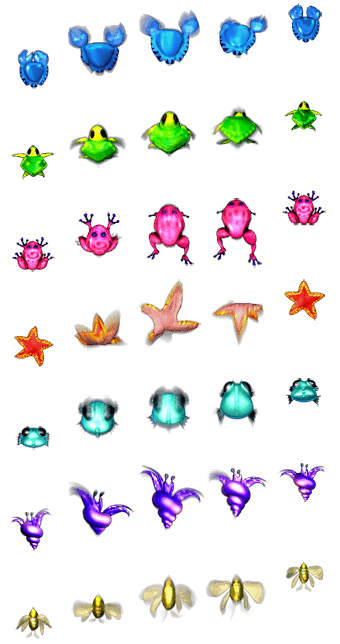
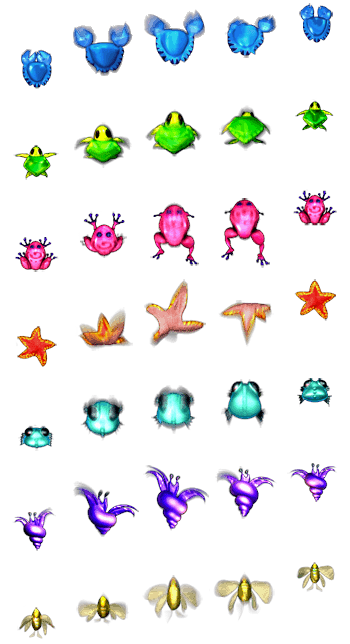
see #300 [t:1h30m]

diff --git a/js/imageCollage.js b/js/imageCollage.js
@@ -823,211 +823,211 @@ ImageCollage.COLLAGE_ARRAY = [
 	{
 		"collageId": "creatures/beach/blue-crab-jump-strip.png",
 		"imageCoordinateArray": [
-			{"cell": [0, 0, 68, 92]},
-			{"cell": [68, 0, 68, 92]},
-			{"cell": [136, 0, 68, 92]},
-			{"cell": [204, 0, 68, 92]},
-			{"cell": [272, 0, 68, 92]}
+			{"cell": [11, 0, 46, 92]},
+			{"cell": [79, 0, 46, 92]},
+			{"cell": [147, 0, 46, 92]},
+			{"cell": [215, 0, 46, 92]},
+			{"cell": [283, 0, 46, 92]}
 		]
 	},
 	{
 		"collageId": "creatures/beach/green-turtle-jump-strip.png",
 		"imageCoordinateArray": [
-			{"cell": [0, 0, 68, 92]},
-			{"cell": [68, 0, 68, 92]},
-			{"cell": [136, 0, 68, 92]},
-			{"cell": [204, 0, 68, 92]},
-			{"cell": [272, 0, 68, 92]}
+			{"cell": [11, 0, 46, 92]},
+			{"cell": [79, 0, 46, 92]},
+			{"cell": [147, 0, 46, 92]},
+			{"cell": [215, 0, 46, 92]},
+			{"cell": [283, 0, 46, 92]}
 		]
 	},
 	{
 		"collageId": "creatures/beach/pink-frog-jump-strip.png",
 		"imageCoordinateArray": [
-			{"cell": [0, 0, 68, 92]},
-			{"cell": [68, 0, 68, 92]},
-			{"cell": [136, 0, 68, 92]},
-			{"cell": [204, 0, 68, 92]},
-			{"cell": [272, 0, 68, 92]}
+			{"cell": [11, 0, 46, 92]},
+			{"cell": [79, 0, 46, 92]},
+			{"cell": [147, 0, 46, 92]},
+			{"cell": [215, 0, 46, 92]},
+			{"cell": [283, 0, 46, 92]}
 		]
 	},
 	{
 		"collageId": "creatures/beach/red-starfish-jump-strip.png",
 		"imageCoordinateArray": [
-			{"cell": [0, 0, 68, 92]},
-			{"cell": [68, 0, 68, 92]},
-			{"cell": [136, 0, 68, 92]},
-			{"cell": [204, 0, 68, 92]},
-			{"cell": [272, 0, 68, 92]}
+			{"cell": [11, 0, 46, 92]},
+			{"cell": [79, 0, 46, 92]},
+			{"cell": [147, 0, 46, 92]},
+			{"cell": [215, 0, 46, 92]},
+			{"cell": [283, 0, 46, 92]}
 		]
 	},
 	{
 		"collageId": "creatures/beach/teal-blob-jump-strip.png",
 		"imageCoordinateArray": [
-			{"cell": [0, 0, 68, 92]},
-			{"cell": [68, 0, 68, 92]},
-			{"cell": [136, 0, 68, 92]},
-			{"cell": [204, 0, 68, 92]},
-			{"cell": [272, 0, 68, 92]}
+			{"cell": [11, 0, 46, 92]},
+			{"cell": [79, 0, 46, 92]},
+			{"cell": [147, 0, 46, 92]},
+			{"cell": [215, 0, 46, 92]},
+			{"cell": [283, 0, 46, 92]}
 		]
 	},
 	{
 		"collageId": "creatures/beach/violet-crab-jump-strip.png",
 		"imageCoordinateArray": [
-			{"cell": [0, 0, 68, 92]},
-			{"cell": [68, 0, 68, 92]},
-			{"cell": [136, 0, 68, 92]},
-			{"cell": [204, 0, 68, 92]},
-			{"cell": [272, 0, 68, 92]}
+			{"cell": [11, 0, 46, 92]},
+			{"cell": [79, 0, 46, 92]},
+			{"cell": [147, 0, 46, 92]},
+			{"cell": [215, 0, 46, 92]},
+			{"cell": [283, 0, 46, 92]}
 		]
 	},
 	{
 		"collageId": "creatures/beach/yellow-fish-jump-strip.png",
 		"imageCoordinateArray": [
-			{"cell": [0, 0, 68, 92]},
-			{"cell": [68, 0, 68, 92]},
-			{"cell": [136, 0, 68, 92]},
-			{"cell": [204, 0, 68, 92]},
-			{"cell": [272, 0, 68, 92]}
+			{"cell": [11, 0, 46, 92]},
+			{"cell": [79, 0, 46, 92]},
+			{"cell": [147, 0, 46, 92]},
+			{"cell": [215, 0, 46, 92]},
+			{"cell": [283, 0, 46, 92]}
 		]
 	},
 	{
 		"collageId": "creatures/forest/blue-beetle-jump-strip.png",
 		"imageCoordinateArray": [
-			{"cell": [0, 0, 68, 92]},
-			{"cell": [68, 0, 68, 92]},
-			{"cell": [136, 0, 68, 92]},
-			{"cell": [204, 0, 68, 92]},
-			{"cell": [272, 0, 68, 92]}
+			{"cell": [11, 0, 46, 92]},
+			{"cell": [79, 0, 46, 92]},
+			{"cell": [147, 0, 46, 92]},
+			{"cell": [215, 0, 46, 92]},
+			{"cell": [283, 0, 46, 92]}
 		]
 	},
 	{
 		"collageId": "creatures/forest/green-butterfly-jump-strip.png",
 		"imageCoordinateArray": [
-			{"cell": [0, 0, 68, 92]},
-			{"cell": [68, 0, 68, 92]},
-			{"cell": [136, 0, 68, 92]},
-			{"cell": [204, 0, 68, 92]},
-			{"cell": [272, 0, 68, 92]}
+			{"cell": [11, 0, 46, 92]},
+			{"cell": [79, 0, 46, 92]},
+			{"cell": [147, 0, 46, 92]},
+			{"cell": [215, 0, 46, 92]},
+			{"cell": [283, 0, 46, 92]}
 		]
 	},
 	{
 		"collageId": "creatures/forest/pink-lizard-jump-strip.png",
 		"imageCoordinateArray": [
-			{"cell": [0, 0, 68, 92]},
-			{"cell": [68, 0, 68, 92]},
-			{"cell": [136, 0, 68, 92]},
-			{"cell": [204, 0, 68, 92]},
-			{"cell": [272, 0, 68, 92]}
+			{"cell": [11, 0, 46, 92]},
+			{"cell": [79, 0, 46, 92]},
+			{"cell": [147, 0, 46, 92]},
+			{"cell": [215, 0, 46, 92]},
+			{"cell": [283, 0, 46, 92]}
 		]
 	},
 	{
 		"collageId": "creatures/forest/red-beetle-jump-strip.png",
 		"imageCoordinateArray": [
-			{"cell": [0, 0, 68, 92]},
-			{"cell": [68, 0, 68, 92]},
-			{"cell": [136, 0, 68, 92]},
-			{"cell": [204, 0, 68, 92]},
-			{"cell": [272, 0, 68, 92]}
+			{"cell": [11, 0, 46, 92]},
+			{"cell": [79, 0, 46, 92]},
+			{"cell": [147, 0, 46, 92]},
+			{"cell": [215, 0, 46, 92]},
+			{"cell": [283, 0, 46, 92]}
 		]
 	},
 	{
 		"collageId": "creatures/forest/teal-bug-jump-strip.png",
 		"imageCoordinateArray": [
-			{"cell": [0, 0, 68, 92]},
-			{"cell": [68, 0, 68, 92]},
-			{"cell": [136, 0, 68, 92]},
-			{"cell": [204, 0, 68, 92]},
-			{"cell": [272, 0, 68, 92]}
+			{"cell": [11, 0, 46, 92]},
+			{"cell": [79, 0, 46, 92]},
+			{"cell": [147, 0, 46, 92]},
+			{"cell": [215, 0, 46, 92]},
+			{"cell": [283, 0, 46, 92]}
 		]
 	},
 	{
 		"collageId": "creatures/forest/violet-moth-jump-strip.png",
 		"imageCoordinateArray": [
-			{"cell": [0, 0, 68, 92]},
-			{"cell": [68, 0, 68, 92]},
-			{"cell": [136, 0, 68, 92]},
-			{"cell": [204, 0, 68, 92]},
-			{"cell": [272, 0, 68, 92]}
+			{"cell": [11, 0, 46, 92]},
+			{"cell": [79, 0, 46, 92]},
+			{"cell": [147, 0, 46, 92]},
+			{"cell": [215, 0, 46, 92]},
+			{"cell": [283, 0, 46, 92]}
 		]
 	},
 	{
 		"collageId": "creatures/forest/yellow-frog-jump-strip.png",
 		"imageCoordinateArray": [
-			{"cell": [0, 0, 68, 92]},
-			{"cell": [68, 0, 68, 92]},
-			{"cell": [136, 0, 68, 92]},
-			{"cell": [204, 0, 68, 92]},
-			{"cell": [272, 0, 68, 92]}
+			{"cell": [11, 0, 46, 92]},
+			{"cell": [79, 0, 46, 92]},
+			{"cell": [147, 0, 46, 92]},
+			{"cell": [215, 0, 46, 92]},
+			{"cell": [283, 0, 46, 92]}
 		]
 	},
 	{
 		"collageId": "creatures/cave/blue-crystal-jump-strip.png",
 		"imageCoordinateArray": [
-			{"cell": [0, 0, 68, 92]},
-			{"cell": [68, 0, 68, 92]},
-			{"cell": [136, 0, 68, 92]},
-			{"cell": [204, 0, 68, 92]},
-			{"cell": [272, 0, 68, 92]}
+			{"cell": [11, 0, 46, 92]},
+			{"cell": [79, 0, 46, 92]},
+			{"cell": [147, 0, 46, 92]},
+			{"cell": [215, 0, 46, 92]},
+			{"cell": [283, 0, 46, 92]}
 		]
 	},
 	{
 		"collageId": "creatures/cave/green-frog-jump-strip.png",
 		"imageCoordinateArray": [
-			{"cell": [0, 0, 68, 92]},
-			{"cell": [68, 0, 68, 92]},
-			{"cell": [136, 0, 68, 92]},
-			{"cell": [204, 0, 68, 92]},
-			{"cell": [272, 0, 68, 92]}
+			{"cell": [11, 0, 46, 92]},
+			{"cell": [79, 0, 46, 92]},
+			{"cell": [147, 0, 46, 92]},
+			{"cell": [215, 0, 46, 92]},
+			{"cell": [283, 0, 46, 92]}
 		]
 	},
 	{
 		"collageId": "creatures/cave/pink-spike-jump-strip.png",
 		"imageCoordinateArray": [
-			{"cell": [0, 0, 68, 92]},
-			{"cell": [68, 0, 68, 92]},
-			{"cell": [136, 0, 68, 92]},
-			{"cell": [204, 0, 68, 92]},
-			{"cell": [272, 0, 68, 92]}
+			{"cell": [11, 0, 46, 92]},
+			{"cell": [79, 0, 46, 92]},
+			{"cell": [147, 0, 46, 92]},
+			{"cell": [215, 0, 46, 92]},
+			{"cell": [283, 0, 46, 92]}
 		]
 	},
 	{
 		"collageId": "creatures/cave/red-beetle-jump-strip.png",
 		"imageCoordinateArray": [
-			{"cell": [0, 0, 68, 92]},
-			{"cell": [68, 0, 68, 92]},
-			{"cell": [136, 0, 68, 92]},
-			{"cell": [204, 0, 68, 92]},
-			{"cell": [272, 0, 68, 92]}
+			{"cell": [11, 0, 46, 92]},
+			{"cell": [79, 0, 46, 92]},
+			{"cell": [147, 0, 46, 92]},
+			{"cell": [215, 0, 46, 92]},
+			{"cell": [283, 0, 46, 92]}
 		]
 	},
 	{
 		"collageId": "creatures/cave/teal-flyer-jump-strip.png",
 		"imageCoordinateArray": [
-			{"cell": [0, 0, 68, 92]},
-			{"cell": [68, 0, 68, 92]},
-			{"cell": [136, 0, 68, 92]},
-			{"cell": [204, 0, 68, 92]},
-			{"cell": [272, 0, 68, 92]}
+			{"cell": [11, 0, 46, 92]},
+			{"cell": [79, 0, 46, 92]},
+			{"cell": [147, 0, 46, 92]},
+			{"cell": [215, 0, 46, 92]},
+			{"cell": [283, 0, 46, 92]}
 		]
 	},
 	{
 		"collageId": "creatures/cave/violet-lizard-jump-strip.png",
 		"imageCoordinateArray": [
-			{"cell": [0, 0, 68, 92]},
-			{"cell": [68, 0, 68, 92]},
-			{"cell": [136, 0, 68, 92]},
-			{"cell": [204, 0, 68, 92]},
-			{"cell": [272, 0, 68, 92]}
+			{"cell": [11, 0, 46, 92]},
+			{"cell": [79, 0, 46, 92]},
+			{"cell": [147, 0, 46, 92]},
+			{"cell": [215, 0, 46, 92]},
+			{"cell": [283, 0, 46, 92]}
 		]
 	},
 	{
 		"collageId": "creatures/cave/yellow-bug-jump-strip.png",
 		"imageCoordinateArray": [
-			{"cell": [0, 0, 68, 92]},
-			{"cell": [68, 0, 68, 92]},
-			{"cell": [136, 0, 68, 92]},
-			{"cell": [204, 0, 68, 92]},
-			{"cell": [272, 0, 68, 92]}
+			{"cell": [11, 0, 46, 92]},
+			{"cell": [79, 0, 46, 92]},
+			{"cell": [147, 0, 46, 92]},
+			{"cell": [215, 0, 46, 92]},
+			{"cell": [283, 0, 46, 92]}
 		]
 	}
 ];
@@ -1067,8 +1067,9 @@ function ImageCollage (collageDescriptor, image) {
 			childCollageDescriptor = ImageCollage.findByName( id );
 			lookUpTable[id] = imageForCache;
 			if(childCollageDescriptor){
-				new ImageCollage(childCollageDescriptor, imageForCache);
+				imageForCache.onload = ImageCollage.makeOnloadFunction(childCollageDescriptor, imageForCache);
 			}	
+			
 		}
 	}
 
@@ -1080,6 +1081,12 @@ function ImageCollage (collageDescriptor, image) {
 
 	LoadingScreen.gal.release(collageId);
 } // ImageCollage constructor
+
+ImageCollage.makeOnloadFunction = function(childCollageDescriptor, imageForCache) {
+	return function(){
+		new ImageCollage(childCollageDescriptor, imageForCache);
+	}
+}
 
 /**
  * Returns an image object corresponding to the rectangular region in the this.coordinateArray by imageId
@@ -1104,7 +1111,9 @@ ImageCollage.prototype.getImageForCache = function (index){
 	width = imageCoordinate.cell[2];
 	height = imageCoordinate.cell[3];
 
-	//console.log(width + "," + height + "," + x + "," + y + "," + imageCollage.image.naturalWidth);
+	if(!this.image.naturalWidth){
+		console.error(this.image.id + ' '  + this.image.naturalWidth);
+	}
 	//TODO: IGOR: remove this check in the future - this is because of imageCollage description errors!
 	if (x + width > this.image.naturalWidth) {
 		if (this.image.naturalWidth >= width) {

diff --git a/js/canvasUtil.js b/js/canvasUtil.js
@@ -86,10 +86,11 @@ CanvasUtil.rotateImages = function(images, degrees) {
 	ctx.rotate(degrees * Math.PI / 180);
 
 	for( i = 0; i < images.length; i++ ) {
-		ctx.drawImage(image, cx, cy);
+		ctx.clearRect(cx,cy,images[i].width,images[i].height)
+		ctx.drawImage(images[i], cx, cy);
 		imageRotated = new Image();
 		imageRotated.src = canvas.toDataURL('image/png');
-		imagesRotated.push( image );
+		imagesRotated.push( imageRotated );
 	}
 	return imagesRotated;
 };
